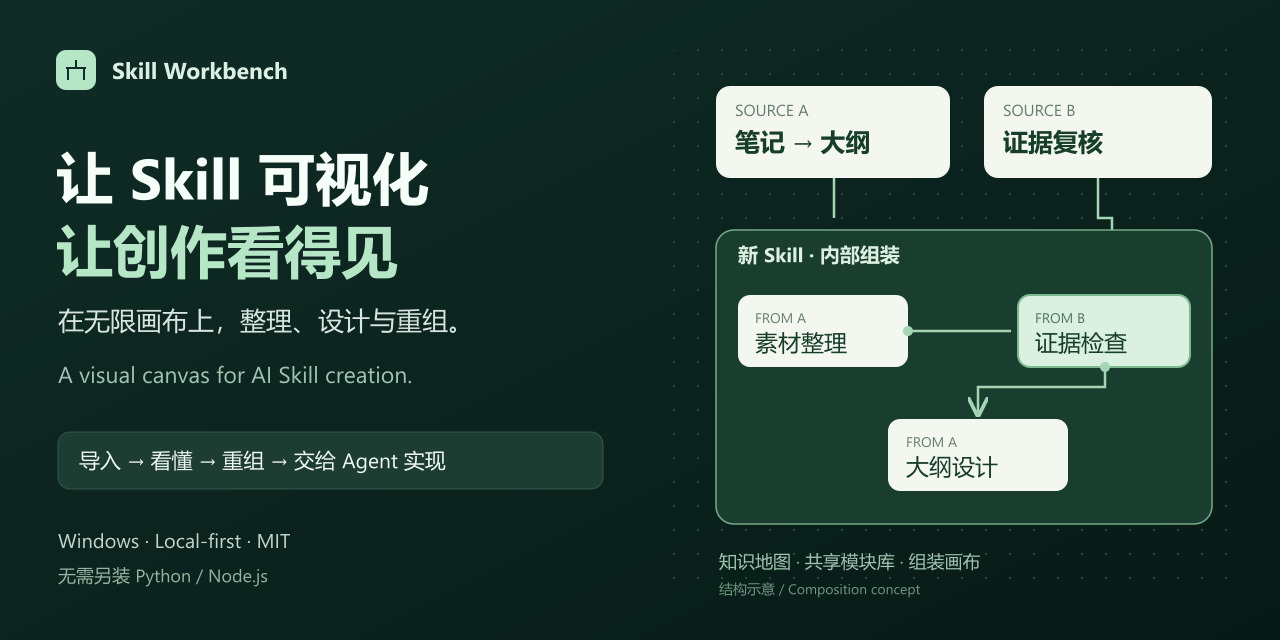
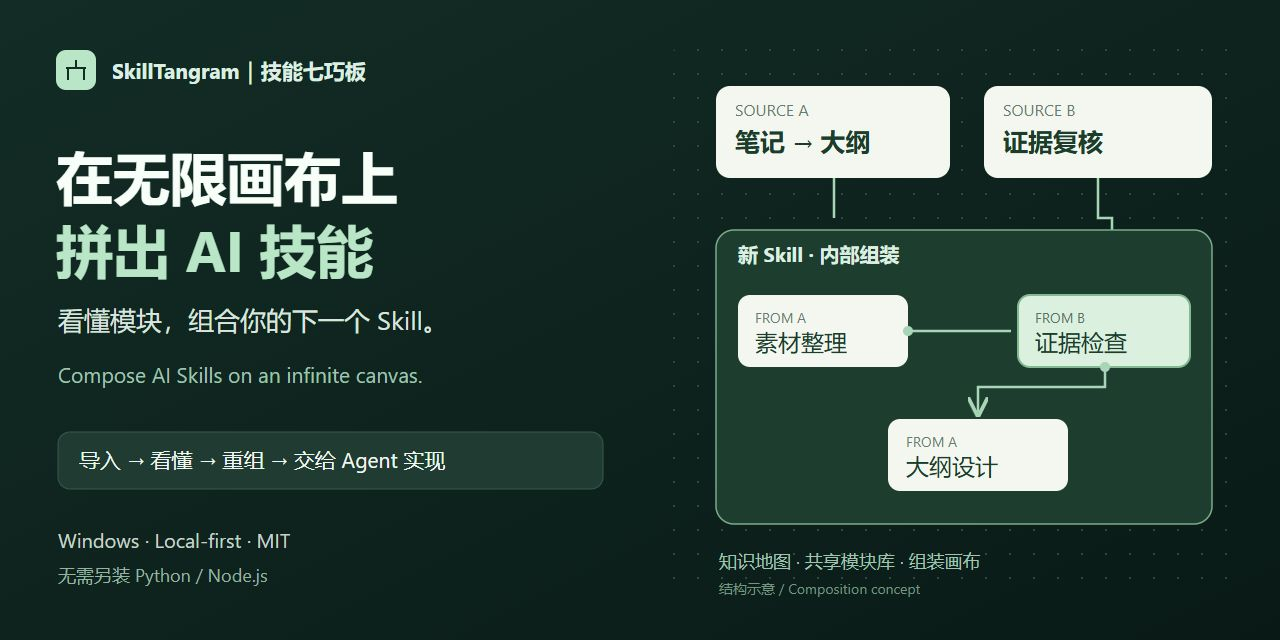
Rebrand as SkillTangram while preserving links and saved data

diff --git a/apps/web/src/main.tsx b/apps/web/src/main.tsx
@@ -1,3 +1,4 @@
+import {BRAND} from './branding';
 import React,{useCallback,useEffect,useMemo,useRef,useState} from 'react';
 import {createRoot} from 'react-dom/client';
 import {ReactFlow,ReactFlowProvider,Background,Controls,MiniMap,Handle,Position,applyNodeChanges,useReactFlow} from '@xyflow/react';
@@ -65,17 +66,17 @@ function App(){
   const jump=async(id:string,other?:string)=>{try{if(other&&other!==sid){setSid(other);await load(other);}const d=await api('nodes/'+id);setFocus(d.parent_id||id);setTrailIds(d.parent_id?d.breadcrumb.slice(0,-1).map((n:any)=>n.id):[id]);setChosen(id);setDetail(d);setView('map');setResults(null);setQuery('');}catch(e:any){setError(e.message);}};
   const refresh=async()=>{if(skill?.family_id){openImports(skill.family_id);return;}setBusy(true);setError('');try{const r=await api('skills/'+sid+'/scan',{});await load(sid);setDetail(null);if(chosen)setDetail(await api('nodes/'+chosen));setNotice(r.changed?'地图已更新，原文重新核对完成。':'已核对全部源文件，当前没有变化。');}catch(e:any){setError(e.message);}finally{setBusy(false);}};
   const inspect=async()=>{setView('inventory');try{setInventory(await api('skills/'+sid+'/inventory'));}catch(e:any){setError(e.message);}};
-  return <div className={"app-shell "+(view==='assembly'?'assembly-active':view==='releases'?'release-active':'')}><aside className="sidebar"><div className="brand"><div className="brand-symbol"><Network size={25}/></div><div><strong>Skill Workbench</strong><small>SKILL CREATION CANVAS</small></div></div>
+  return <div className={"app-shell "+(view==='assembly'?'assembly-active':view==='releases'?'release-active':'')}><aside className="sidebar"><div className="brand"><div className="brand-symbol"><Network size={25}/></div><div><strong title={BRAND.display}>{BRAND.name}<span className="brand-cn">｜{BRAND.chinese}</span></strong><small>COMPOSE AI SKILLS</small></div></div>
     <div className="workspace-label">工作空间 <span>本机</span></div><button className={'nav-button '+(view==='map'?'active':'')} onClick={()=>setView('map')}><Network size={18}/>知识地图</button><button className={'nav-button '+(view==='assembly'?'active':'')} onClick={openAssembly}><Layers size={18}/>组装台</button><button className={'nav-button '+(view==='imports'?'active':'')} onClick={()=>openImports()}><FolderOpen size={18}/>导入与同步</button><button className={'nav-button '+(view==='tasks'?'active':'')} onClick={()=>setView('tasks')}><MessageSquare size={18}/>维护意见<span className="nav-count">{skill?.pending||0}</span></button><button className={'nav-button '+(view==='inventory'?'active':'')} onClick={inspect}><FileText size={18}/>来源与核验</button>
     <button className={'nav-button '+(view==='releases'?'active':'')} onClick={()=>{setQuery('');setResults(null);setView('releases');}}><ShieldCheck size={18}/>发布与调用</button>
     <div className="workspace-label skill-label">已登记 Skill <button title="登记新Skill" onClick={()=>openImports()}><Plus size={16}/></button></div><div className="skill-list">{skills.filter(s=>s.version_role!=='历史版本').map(s=><button key={s.id} className={'skill-item '+(sid===s.id?'selected':'')} onClick={()=>{setSid(s.id);load(s.id,true).catch(e=>setError(e.message));setView('map');}}><span className="skill-glyph"><BookOpen size={19}/></span><span><strong>{s.name}</strong><small>{s.version} · {s.state}</small></span><ChevronRight size={14}/></button>)}</div>
     <div className="workspace-label">当前地图大纲</div><div className="outline">{facts.filter(f=>f.kind==='theme').map(f=><div key={f.id}><button className={focus===f.id?'outline-picked':''} onClick={()=>open(f.id)}><ChevronRight size={13}/>{f.title}<span>{facts.filter(n=>edges.some(e=>e.kind==='contains'&&e.source_id===f.id&&e.target_id===n.id)).length}</span></button>{trail.some(n=>n.id===f.id)&&facts.filter(n=>edges.some(e=>e.kind==='contains'&&e.source_id===f.id&&e.target_id===n.id)).map(n=><button className={'outline-child '+(focus===n.id?'outline-picked':'')} key={n.id} title={n.path||n.title} onClick={()=>open(n.id)}><FileText size={12}/>{n.title}</button>)}</div>)}</div><div className="sidebar-foot"><ShieldCheck size={17}/><div>现有 Skill 只读<small>修改规则须批准具体方案</small></div></div></aside>
-    <main><header className="topbar"><div className="topbar-title"><span className="eyebrow">知识与组装 · 同一工作空间</span><h1>{view==='releases'?'发布与调用':view==='assembly'?'Skill 组装台':view==='tasks'?'维护意见':view==='inventory'?'来源与核验':view==='imports'?'导入与同步':'Skill 知识地图'}</h1></div>{view!=='assembly'&&view!=='imports'&&view!=='releases'&&<div className="search-box"><Search size={17}/><input aria-label="搜索全部Skill" placeholder="搜索规则、原文或路径…" value={query} onChange={e=>setQuery(e.target.value)}/><kbd>全部 Skill</kbd>{query&&<button aria-label="关闭搜索" onClick={()=>setQuery('')}><X size={16}/></button>}</div>}<button className="icon-button" title="核对原目录与预览新版同步" disabled={busy||!sid} onClick={refresh}><RefreshCw size={19} className={busy?'spin':''}/></button><div className="avatar">S</div></header>
+    <main><header className="topbar"><div className="topbar-title"><span className="eyebrow">在无限画布上，拼出你的 AI 技能。</span><h1>{view==='releases'?'发布与调用':view==='assembly'?'Skill 组装台':view==='tasks'?'维护意见':view==='inventory'?'来源与核验':view==='imports'?'导入与同步':'Skill 知识地图'}</h1></div>{view!=='assembly'&&view!=='imports'&&view!=='releases'&&<div className="search-box"><Search size={17}/><input aria-label="搜索全部Skill" placeholder="搜索规则、原文或路径…" value={query} onChange={e=>setQuery(e.target.value)}/><kbd>全部 Skill</kbd>{query&&<button aria-label="关闭搜索" onClick={()=>setQuery('')}><X size={16}/></button>}</div>}<button className="icon-button" title="核对原目录与预览新版同步" disabled={busy||!sid} onClick={refresh}><RefreshCw size={19} className={busy?'spin':''}/></button><div className="avatar">S</div></header>
     {error&&<div role="alert" className="alert"><AlertCircle size={17}/>{error}<button onClick={()=>setError('')}><X size={16}/></button></div>}{notice&&<div className="notice"><Check size={16}/>{notice}<button onClick={()=>setNotice('')}><X size={16}/></button></div>}
     {view!=='assembly'&&view!=='imports'&&view!=='releases'&&<div className="skill-banner"><div><span className="version-badge">{skill?.version||'待登记'}</span><strong>{skill?.name||'请先导入您的 Skill'}</strong><span className="status-pill"><span className={'dot '+(skill?.error?'warning':'')}/>{skill?.state||'等待导入'}</span></div><p>{skill?.description}</p><div className="metrics"><span><strong>{skill?.files||0}</strong>来源文件</span><span><strong>{Math.max(0,(skill?.counts.theme||0)-(skill?.navigation_adapter==='V16_ENTRY_AUTHORITY'?1:0))}</strong>知识区 <small>{skill?.navigation_adapter==='V16_ENTRY_AUTHORITY'?'＋配套材料':skill?.navigation_adapter==='SOURCE_CONTENT_NAVIGATION'?'内容导航':'来源结构'}</small></span><span><strong>{(skill?.counts.rule_candidate||0)+(skill?.counts.subrule||0)}</strong>规则 / 子规则候选 <small>语义待审</small></span><span><strong>{skill?.pending||0}</strong>待处理意见</span><span className="sync-time"><Clock size={13}/>核对于 {skill?.last_sync?new Date(skill.last_sync).toLocaleTimeString('zh-CN'): '—'}</span></div></div>}
     {skill?.error&&<div className="alert">{skill.error}。当前显示上次成功的地图，不能当作最新源。</div>}
     {view==='releases'&&<ReleasePanel onOpenImports={openImports} onOpenVersion={id=>{setSid(id);void load(id,true);setView('map');}}/>}
-    {skills.length===0&&view==='map'&&<section className="welcome"><h2>从第一份 Skill 开始创作</h2><p>导入已有 Skill，看清大小模块；进入组装台，用画布整理和设计自己的新方案。</p><button className="primary" onClick={()=>openImports()}>导入我的 Skill</button><small>也可以导入 examples 目录中的公开示例。原 Skill 保持完整。</small></section>}{view==='imports'&&<ImportPanel initialFamily={importFamily} onOpenVersion={id=>{setSid(id);void load(id,true);setView('map');}} onAdopted={async id=>{setSid(id);await load(id,true);setNotice('准确来源版本已接入三个视图；旧版及草稿保留。');}}/>}
+    {skills.length===0&&view==='map'&&<section className="welcome"><h2>从第一份 Skill 开始创作</h2><p>看懂已有 Skill，复用不同来源的模块，在无限画布上组合、调整和设计，再将完整方案交给 Agent 核验与实现。</p><button className="primary" onClick={()=>openImports()}>导入我的 Skill</button><small>也可以导入 examples 目录中的公开示例。原 Skill 保持完整。</small></section>}{view==='imports'&&<ImportPanel initialFamily={importFamily} onOpenVersion={id=>{setSid(id);void load(id,true);setView('map');}} onAdopted={async id=>{setSid(id);await load(id,true);setNotice('准确来源版本已接入三个视图；旧版及草稿保留。');}}/>}
     {view!=='assembly'&&view!=='imports'&&view!=='releases'&&(results!==null?<section className="search-results"><div className="section-heading"><h2>搜索结果 <span>{results.length}</span></h2><small>{searchMs} ms · 最多显示60项</small></div>{results.length===0?<div className="empty"><Search size={32}/><h3>没有找到相关内容</h3><p>试试规则中的词语或文件路径。</p></div>:results.map(r=><button className="result" key={r.id} onClick={()=>jump(r.id,r.skill_id)}><div className="result-top"><strong><Mark text={r.title} query={query}/></strong><span>{r.version} · {labels[r.kind]}</span></div><p><Mark text={r.snippet} query={query}/></p><small>{r.breadcrumb.map((b:any)=>b.title).join(' › ')}</small>{r.version_role==='历史版本'?<em>历史版本 · 保留原文</em>:r.source_status==='待同步'?<em>原目录待同步 · 当前结果为登记快照</em>:r.source_status?.includes('来源异常')?<em>原目录异常 · 当前结果为登记快照</em>:!r.version_role&&r.state!=='已同步'?<em>源异常：此结果可能过期</em>:null}</button>)}</section>:
       view==='inventory'?<section className="inventory-view"><div className="section-heading"><h2>原文与索引对照</h2><div className="task-actions"><button onClick={async()=>{try{const r=await api('backup',{});setNotice('工作台数据已备份：'+r.path);}catch(e:any){setError(e.message);}}}><History size={15}/>备份工作台数据</button><button onClick={()=>download('来源清单.json',inventory)}><Download size={15}/>导出清单</button></div></div><p className="muted">所有源只读。自动结构定位已经核对；业务语义和引用职责仍待独立审查。</p><div className="file-table"><div className="file-row table-head"><span>来源文件</span><span>行数</span><span>状态</span><span>SHA256</span></div>{inventory?.files.map((f:any)=><div className="file-row" key={f.id}><button onClick={()=>{const n=facts.find(n=>n.path===f.path&&n.kind==='file');if(n)jump(n.id);}}>{f.path}</button><span>{f.line_count}</span><span>{f.deleted?'已删除':f.state}</span><code title={f.sha256}>{f.sha256.slice(0,12)}…</code></div>)}</div><h3>待核对的文件名引用 · {inventory?.unresolved.length||0}</h3><p className="muted">未定位的词可能是输出产物、外部路径或符号，不直接判为坏链接。</p>{inventory?.unresolved.map((u:any,i:number)=><button className="unresolved-item" key={i} onClick={()=>jump(u.source_id)}><span>{u.token}</span><small>{u.path}:{u.line} · {u.reason}</small></button>)}</section>:
       view==='tasks'?<TaskQueue onError={setError} onNotice={setNotice}/>:

diff --git a/apps/web/src/demo/main.tsx b/apps/web/src/demo/main.tsx
@@ -1,3 +1,4 @@
+import {BRAND} from '../branding';
 import React,{useEffect,useState} from 'react';
 import {createRoot} from 'react-dom/client';
 import {ReactFlow,Background,Controls,MiniMap,Handle,Position,BaseEdge,EdgeLabelRenderer,getBezierPath,applyNodeChanges,useReactFlow,useNodesInitialized} from '@xyflow/react';
@@ -48,7 +49,7 @@ function App(){
   useEffect(()=>{const close=(e:KeyboardEvent)=>{if(e.key==='Escape'){setRead(null);setResetConfirm(false);}};window.addEventListener('keydown',close);return()=>window.removeEventListener('keydown',close);},[]);
   const [start,setStart]=useState(''),[end,setEnd]=useState(''),[handoff,setHandoff]=useState('');
   const [nodes,setNodes]=useState<Node<CardData>[]>([]);
-  useEffect(()=>{document.documentElement.lang=lang;document.title='Skill Workbench · '+t('在线体验','Try the canvas');},[lang]);
+  useEffect(()=>{document.documentElement.lang=lang;document.title=BRAND.display+' · '+t('在线体验','Try the canvas');},[lang]);
   useEffect(()=>{const f=(e:BeforeUnloadEvent)=>{if(dirty){e.preventDefault();e.returnValue='';}};window.addEventListener('beforeunload',f);return()=>window.removeEventListener('beforeunload',f);},[dirty]);
   const parent=locationIn?byId.get(resolveLocation(draft,locationIn,children))!:null;
   const slots=locationIn?slotsAt(draft,locationIn,parent!.id,children):[];
@@ -87,8 +88,8 @@ function App(){
   const breadcrumbs=locationIn?[byId.get(draft.instances.find(p=>p.id===locationIn.owner_id)!.node_id)!,...locationIn.path.map((_,i)=>byId.get(resolveLocation(draft,{owner_id:locationIn.owner_id,path:locationIn.path.slice(0,i+1)},children))!)]:[];
   const sourceFile=read?data.files.find(f=>f.path===read.path)!:null;
   return <>
-    <header className="topbar"><a className="brand" href={REPO} target="_blank" rel="noreferrer"><span className="brand-symbol"><GitBranch size={22}/></span>Skill Workbench</a><span className="demo-badge">{t('在线体验','LIVE EXAMPLE')}</span><nav><button className="lang-button" onClick={()=>setLang(zh?'en':'zh')}>{zh?'English':'中文'}</button><a href={REPO} target="_blank" rel="noreferrer">GitHub <ArrowUpRight size={14}/></a><a className="download-link" href={INSTALL} target="_blank" rel="noreferrer"><Download size={15}/>{t('下载完整版','Get desktop app')}</a></nav></header>
-    <section className="intro"><div><div className="eyebrow">SEE IT. SHAPE IT. HAND IT OFF.</div><h1>{t('把 Skill 想法，放到画布上。','Your next Skill starts on a canvas.')}</h1><p>{t('看看来源，把模块放进合适的位置，再把完整设计交给 Agent。','Inspect the source. Place modules where they belong. Hand the complete design to your agent.')}</p></div><div className="local-label"><span/>{t('无需安装 · 无需登录 · 浏览器本地保存','No install · No account · Saved in your browser')}</div></section>
+    <header className="topbar"><a className="brand" href={REPO} target="_blank" rel="noreferrer"><span className="brand-symbol"><GitBranch size={22}/></span><span className="brand-wordmark">{BRAND.name}<small>｜{BRAND.chinese}</small></span></a><span className="demo-badge">{t('在线体验','LIVE EXAMPLE')}</span><nav><button className="lang-button" onClick={()=>setLang(zh?'en':'zh')}>{zh?'English':'中文'}</button><a href={REPO} target="_blank" rel="noreferrer">GitHub <ArrowUpRight size={14}/></a><a className="download-link" href={INSTALL} target="_blank" rel="noreferrer"><Download size={15}/>{t('下载完整版','Get desktop app')}</a></nav></header>
+    <section className="intro"><div><div className="eyebrow">SEE IT. SHAPE IT. HAND IT OFF.</div><h1>{t(BRAND.taglineZh,BRAND.taglineEn)}</h1><p>{t(BRAND.introZh,BRAND.introEn)}</p></div><div className="local-label"><span/>{t('无需安装 · 无需登录 · 浏览器本地保存','No install · No account · Saved in your browser')}</div></section>
     <main className="workspace">
       <aside className="library"><div className="panel-heading"><Layers size={17}/><h2>{t('模块仓库','Module library')}</h2><span>2 Skills</span></div><p className="panel-description">{t('来自两个公开示例，保留来源与原文。','Two public examples. Each module keeps its source.')}</p><label className="search"><Search size={15}/><input aria-label={t('搜索模块','Search modules')} value={query} onChange={e=>setQuery(e.target.value)} placeholder={t('搜索模块或来源…','Search modules or sources…')}/></label><div className="segmented"><button className={libraryLevel==='files'?'active':''} onClick={()=>setLibraryLevel('files')}>{t('主要模块','Main modules')}</button><button className={libraryLevel==='all'?'active':''} onClick={()=>setLibraryLevel('all')}>{t('含子模块','With submodules')}</button></div>
         <div className="library-list">{library.map(u=><article className="library-card" key={u.id} draggable={mode==='assembly'} onDragStart={e=>{e.dataTransfer.setData('application/skill-workbench-unit',u.id);e.dataTransfer.effectAllowed='copy';}}><div className="library-top"><Box size={15}/><span>{u.kind==='section'?t('子模块','SUBMODULE'):t('模块','MODULE')}</span><button className="icon-button" aria-label={t('查看原文','Read source')+' '+title(u)} onClick={()=>setRead(u)}><FileText size={14}/></button></div><strong>{title(u)}</strong><small>{source(u)} · 1.0</small><div className="library-actions"><span>{(children.get(u.id)||[]).length} {t('个子项','children')}</span><button disabled={mode==='map'} aria-label={t('加入','Add')+' '+title(u)} onClick={()=>add(u)}><Plus size={13}/>{t('加入','Add')}</button></div></article>)}{!library.length&&<p className="empty">{t('没有找到模块。试试其他关键词。','No matches. Try another search.')}</p>}</div><div className="library-note"><BookOpen size={16}/><span>{t('自己的 Skill？下载完整版后导入。在线示例不上传文件。','Your own Skills? Import them in the desktop app. This example uploads no files.')}</span></div>

diff --git a/apps/web/src/demo/style.css b/apps/web/src/demo/style.css
@@ -4,3 +4,5 @@
 @media(max-width:1190px){.workspace{grid-template-columns:210px minmax(400px,1fr)}.inspector{display:flex;grid-column:1/-1;max-height:340px;border-left:0;border-top:1px solid var(--border)}.workspace{height:auto}.editor{min-height:560px}.local-label{display:none}.topbar{padding:0 20px}.intro{padding-left:22px}.save-actions button{font-size:10px}.canvas-heading .subtle{max-width:180px}.challenge ol{gap:10px}.challenge li{font-size:9px}.workspace{margin:0 12px}}
 @media(max-width:740px){.topbar{height:58px;padding:0 12px;gap:6px}.brand{font-size:15px}.brand-symbol{width:28px;height:28px}.demo-badge{display:none}.topbar nav{gap:9px;font-size:10px}.download-link{padding:7px!important}.intro{padding:20px 16px}.intro h1{font-size:25px;letter-spacing:-.7px}.intro p{font-size:11px;line-height:1.7}.workspace{display:flex;flex-direction:column;height:auto;min-height:800px;margin:0 8px}.library{padding:12px;border-right:0;border-bottom:1px solid var(--border)}.library .panel-description,.library-note{display:none}.library .panel-heading{margin-bottom:9px}.search{width:calc(100% - 180px)}.segmented{position:absolute;right:20px;width:160px;margin:41px 0 0}.library-list{display:flex;gap:9px;overflow-x:auto;padding:12px 0 0;flex:none}.library-card{min-width:170px;width:170px;margin-bottom:2px}.library-card strong{font-size:11px}.library-top{font-size:8px}.library-actions{margin-top:8px}.editor-top{padding:9px;flex-wrap:wrap;gap:6px}.view-tabs button{font-size:11px}.save-actions{margin-left:auto}.save-actions button{padding:6px 8px}.challenge{padding:12px}.challenge>div{flex-direction:column;align-items:flex-start;gap:5px}.challenge strong{font-size:11px}.challenge ol{gap:10px}.challenge li{font-size:8px}.challenge li>span{width:15px;height:15px}.canvas{height:400px;min-height:400px}.canvas-heading{padding:9px}.canvas-heading .subtle{display:none}.connection-bar{flex-wrap:wrap}.connection-bar>span{width:100%}.connection-bar select{min-width:80px;max-width:none}.connection-bar input{flex-basis:100%;order:2}.connection-bar>button{order:3}.status-line{font-size:9px;min-height:45px}.canvas-tip{font-size:10px;bottom:40px;max-width:85%;white-space:normal}.react-flow__minimap{display:none}footer{padding:15px;flex-direction:column;align-items:flex-start;gap:8px;font-size:9px}.source-modal{padding:18px}.source-modal h2{font-size:18px}.inspector{display:flex;border-left:0;border-top:1px solid var(--border);max-height:420px;padding:15px}.inspector .panel-heading{margin-bottom:10px}.inspector-illustration,.how-to{display:none}.boundary{padding-top:10px}.modal-backdrop{padding:10px}}
 @media(prefers-reduced-motion:reduce){*{transition:none!important;scroll-behavior:auto!important}}
+
+.brand-wordmark{line-height:1.15;white-space:nowrap}.brand-wordmark small{display:block;font-size:11px;font-weight:500;letter-spacing:.5px;margin-top:4px}.intro p{max-width:920px;line-height:1.65}@media(max-width:740px){.brand-wordmark small{font-size:9px;margin-top:2px}.topbar .brand{gap:6px;font-size:14px}.topbar .brand-symbol{width:25px;height:25px;flex-shrink:0}.intro h1{font-size:23px}}

diff --git a/apps/web/demo/index.html b/apps/web/demo/index.html
@@ -1,2 +1,2 @@
 <!doctype html>
-<html lang="en"><head><meta charset="UTF-8"/><meta name="viewport" content="width=device-width, initial-scale=1.0"/><meta name="theme-color" content="#163e34"/><meta name="description" content="Try Skill Workbench in your browser: explore AI Skill maps, compose nested modules on a canvas, connect them and export a source-backed design. No install or account."/><title>Skill Workbench · Try the canvas</title><link rel="icon" type="image/svg+xml" href="./favicon.svg"/></head><body><div id="root"></div><script type="module" src="../src/demo/main.tsx"></script></body></html>
+<html lang="en"><head><meta charset="UTF-8"/><meta name="viewport" content="width=device-width, initial-scale=1.0"/><meta name="theme-color" content="#163e34"/><meta name="description" content="Compose AI Skills on an infinite canvas. Explore maps, remix modules and export a source-backed design. No install or account. 在无限画布上，拼出你的 AI 技能。"/><title>SkillTangram｜技能七巧板 · Try the canvas</title><link rel="icon" type="image/svg+xml" href="./favicon.svg"/></head><body><div id="root"></div><script type="module" src="../src/demo/main.tsx"></script></body></html>

diff --git a/apps/web/index.html b/apps/web/index.html
@@ -1,1 +1,1 @@
-<!doctype html><html lang="zh-CN"><head><meta charset="UTF-8"/><meta name="viewport" content="width=device-width,initial-scale=1.0"/><meta name="theme-color" content="#123930"/><title>Skill Workbench · Skill 创作画布</title></head><body><div id="root"></div><script type="module" src="/src/main.tsx"></script></body></html>
+<!doctype html><html lang="zh-CN"><head><meta charset="UTF-8"/><meta name="viewport" content="width=device-width,initial-scale=1.0"/><meta name="theme-color" content="#123930"/><title>SkillTangram｜技能七巧板</title><meta name="description" content="在无限画布上，拼出你的 AI 技能。 Compose AI Skills on an infinite canvas. 看懂已有 Skill，复用不同来源的模块，在无限画布上组合、调整和设计，再将完整方案交给 Agent 核验与实现。"/></head><body><div id="root"></div><script type="module" src="/src/main.tsx"></script></body></html>

diff --git a/apps/web/src/branding.ts b/apps/web/src/branding.ts
@@ -1,0 +1,10 @@
+// Display-only identity. URLs, storage keys and export formats keep their existing identifiers.
+export const BRAND = {
+  name: 'SkillTangram',
+  chinese: '技能七巧板',
+  display: 'SkillTangram｜技能七巧板',
+  taglineZh: '在无限画布上，拼出你的 AI 技能。',
+  taglineEn: 'Compose AI Skills on an infinite canvas.',
+  introZh: '看懂已有 Skill，复用不同来源的模块，在无限画布上组合、调整和设计，再将完整方案交给 Agent 核验与实现。',
+  introEn: 'Understand existing Skills, remix modules from different sources on an infinite canvas, and hand the complete design to your agent for validation and implementation.',
+} as const;

diff --git a/apps/web/src/style.css b/apps/web/src/style.css
@@ -20,3 +20,6 @@
 .import-card input[hidden]{display:none}
 
 .welcome{margin:24px;padding:28px;border:1px solid #d7e4dd;border-radius:14px;background:#f4f9f5}.welcome h2{color:#1e5140}.welcome p{line-height:1.9}.welcome small{display:block;margin-top:14px;color:#607c6d}
+
+/* Brand stays readable inside the existing sidebar without changing navigation. */
+.brand strong .brand-cn{display:block;font-size:12px;font-weight:500;letter-spacing:.5px;margin-top:4px}.brand strong{line-height:1.25}.brand small{letter-spacing:.9px}

diff --git a/portable_launcher.py b/portable_launcher.py
@@ -53,7 +53,7 @@ def prepare(port):
 
 
 def main():
-    parser = argparse.ArgumentParser(description='Skill Workbench Windows launcher')
+    parser = argparse.ArgumentParser(description='SkillTangram｜技能七巧板 Windows launcher')
     parser.add_argument('--port', type=int, default=int(os.environ.get('SKM_PORT', '8770')))
     parser.add_argument('--no-browser', action='store_true')
     parser.add_argument('--headless', action='store_true', help='For isolated packaging verification')
@@ -76,14 +76,14 @@ def main():
     import tkinter as tk
     from tkinter import messagebox, ttk
     window = tk.Tk()
-    window.title('Skill Workbench')
+    window.title('SkillTangram｜技能七巧板')
     window.geometry('540x280')
     window.resizable(False, False)
     style = ttk.Style(window)
     style.configure('TLabel', font=('Microsoft YaHei UI', 10))
     box = ttk.Frame(window, padding=24)
     box.pack(fill='both', expand=True)
-    ttk.Label(box, text='Skill 可视化创作工作台', font=('Microsoft YaHei UI', 16, 'bold')).pack(anchor='w')
+    ttk.Label(box, text='SkillTangram｜技能七巧板', font=('Microsoft YaHei UI', 16, 'bold')).pack(anchor='w')
     status = tk.StringVar(value='正在启动，请稍候…')
     ttk.Label(box, textvariable=status).pack(anchor='w', pady=(16, 8))
     url = f'http://127.0.0.1:{args.port}/'

diff --git a/tools/build_windows.py b/tools/build_windows.py
@@ -57,7 +57,7 @@ def main():
             if any(token in relative.name.lower() for token in ('license', 'copying', 'notice')) and distribution.locate_file(relative).is_file():
                 destination = notices / ('build-' + name + '-' + relative.name)
                 shutil.copyfile(distribution.locate_file(relative), destination)
-    (bundle / '开始使用.txt').write_text('''Skill Workbench
+    (bundle / '开始使用.txt').write_text('''SkillTangram｜技能七巧板
 
 1. 完整解压整个文件夹。
 2. 双击“启动工作台.exe”，浏览器自动打开。

diff --git a/launcher.py b/launcher.py
@@ -29,7 +29,7 @@ def main():
                         webbrowser.open(url);return
                 time.sleep(.1)
         threading.Thread(target=open_when_ready,daemon=True).start()
-    print('Skill Workbench:',url,'\n运行资料：',config.RUNTIME,'\n按 Ctrl+C 停止。')
+    print('SkillTangram｜技能七巧板:',url,'\n运行资料：',config.RUNTIME,'\n按 Ctrl+C 停止。')
     import uvicorn
     uvicorn.run(api.app,host='127.0.0.1',port=args.port)
 

diff --git a/README.md b/README.md
@@ -1,14 +1,18 @@
-# Skill Workbench · 可视化 Skill 创作工作台
+<a id="skill-workbench--可视化-skill-创作工作台"></a>
 
-**让 Skill 可视化，让创作过程看得见。**
+# SkillTangram｜技能七巧板
 
-**An infinite canvas for visual AI Skill creation.**
+**在无限画布上，拼出你的 AI 技能。**
 
-Skill Workbench 把 Skill 的结构、规则和模块带到可缩放、可平移的画布上。你可以看清已有 Skill，设计新的 Skill，把不同来源的大小模块重新搭配，再将完整设计交给自己的 Agent 或开发者完成接入。
+**Compose AI Skills on an infinite canvas.**
 
-See how existing AI Skills are built, design new ones on a visual canvas, and combine modules from different sources. Export the complete design to your agent or developer for integration.
+SkillTangram（技能七巧板）让模块像七巧板一样重新组合。看懂已有 Skill，复用不同来源的模块，在无限画布上组合、调整和设计，再将完整方案交给 Agent 核验与实现。
+
+SkillTangram turns reusable modules into pieces you can compose. Understand existing Skills, remix modules from different sources on an infinite canvas, and hand the complete design to your agent for validation and implementation.
 
 [**直接在线体验 / Try in your browser →**](https://jiangzl1986-gif.github.io/skill-workbench/) · [**下载 Windows 安装包 / Windows installer**](https://github.com/jiangzl1986-gif/skill-workbench/releases/download/v0.1.0-beta.2/skill-workbench-0.1.0-beta.2-windows-x64-setup.exe) · [**交流与案例 / Discussions**](https://github.com/jiangzl1986-gif/skill-workbench/discussions)
+
+原名 Skill Workbench；仓库与在线体验地址保持不变，原链接、草稿和旧下载继续可用。[名称与兼容说明](docs/BRANDING.md)。
 
 [中文介绍](#中文介绍) · [English on this page](#english) · [English README](README.en.md) · [全部下载 / All downloads](https://github.com/jiangzl1986-gif/skill-workbench/releases) · [使用指南 / User guide](docs/USER_GUIDE.md)
 
@@ -33,7 +37,7 @@ If it helps you create Skills, **Star** the repository to find it again. Share p
 
 用文字和 Agent 讨论 Skill 很方便，但随着规则和文件变多，你可能很难看清：已经做出了哪些模块？某条规则放在哪里？两个模块怎样交接？把别人的一个小模块接进来，应该放到哪个位置？
 
-Skill Workbench 为这个过程提供一个可见、可修改、可交接的工作空间。**把想法画出来，把结构看清楚，把修改位置说明白。** 文字仍可用于描述目标和接入要求，画布则让你直接表达模块的位置、组合与连接。
+SkillTangram 为这个过程提供一个可见、可修改、可交接的工作空间。**把想法画出来，把结构看清楚，把修改位置说明白。** 文字仍可用于描述目标和接入要求，画布则让你直接表达模块的位置、组合与连接。
 
 ## 用它可以怎样创作和整理 Skill
 
@@ -76,7 +80,7 @@ flowchart LR
 
 例如，你想给“笔记转大纲” Skill 增加证据复核能力。先导入它和“证据复核” Skill，载入前者的整套结构，进入“大纲设计”内部，把后者的“证据检查”加入指定位置，连接并写明交接意图。保存设计后，把导出的 JSON 交给自己的 Agent：它可以依据来源原文、版本和你的布局，分析接口与规则，再实施经过确认的方案。两份原 Skill 都保留。
 
-![在大模块内部接入另一份 Skill 的小模块 / Combining a submodule from another Skill inside a parent module](docs/images/inner-composition.png)
+![在大模块内部接入另一份 Skill 的小模块 / Combining a submodule from another Skill inside a parent module](docs/images/demo-inner.jpg)
 
 ## 具体功能
 
@@ -101,7 +105,7 @@ flowchart LR
 第一次体验可跟随 [公开示例图文演示](docs/TRY_IT.md)；无需先准备自己的 Skill，也无需模型账号。
 
 1. 下载 [Windows 安装包](https://github.com/jiangzl1986-gif/skill-workbench/releases)，选择 **windows-x64-setup.exe**。
-2. 双击安装程序，点击 **Install**；完成后打开 **Skill Workbench**，浏览器会自动显示工作台。以后可从桌面或开始菜单打开。
+2. 双击安装程序，点击 **Install**；完成后打开 **Skill Workbench（旧安装包名称）**，浏览器会自动显示工作台。以后可从桌面或开始菜单打开。
 3. 到“导入与同步”选择自己的 Skill，或先用安装目录 `examples` 中的两个公开示例体验跨来源组装。
 
 **不需要自己安装 Python、Node.js，不需要运行 setup，也不需要联网安装依赖。** 当前支持 Windows x64，工作台界面为中文，安装向导为英文。使用时保留启动窗口，点 **退出工作台** 正常停止服务。
@@ -135,7 +139,7 @@ flowchart LR
 
 Text conversations with an agent are useful for building a Skill. As its rules and files grow, it becomes harder to see which modules exist, where a rule belongs, how two modules should hand off their work, or where a submodule from another Skill should fit.
 
-Skill Workbench gives that process a visible, editable workspace. **Sketch your ideas, inspect the structure, and show exactly where a change belongs.** Use text to explain goals and integration requirements, and the canvas to express module placement, composition and connections.
+SkillTangram gives that process a visible, editable workspace. **Sketch your ideas, inspect the structure, and show exactly where a change belongs.** Use text to explain goals and integration requirements, and the canvas to express module placement, composition and connections.
 
 ## What you can create and organize
 
@@ -201,7 +205,7 @@ Canvas connections express your design. **An executable Skill still requires int
 For your first session, follow the [public-example walkthrough](docs/TRY_IT.md#english). You do not need your own Skill or a model account to try the workbench.
 
 1. Download the [Windows installer](https://github.com/jiangzl1986-gif/skill-workbench/releases), choosing **windows-x64-setup.exe**.
-2. Double-click it and choose **Install**. Open **Skill Workbench** when finished; your browser opens automatically. Desktop and Start menu shortcuts are available for later use.
+2. Double-click it and choose **Install**. Open **Skill Workbench** (the name in existing installers) when finished; your browser opens automatically. Desktop and Start menu shortcuts are available for later use.
 3. Import your Skill through “导入与同步”, or try the two public examples in the installed `examples` folder.
 
 **No separate Python, Node.js, setup command or online dependency installation is needed.** The package targets Windows x64; the workbench UI is Chinese and the installer wizard is English. Keep the launcher open and click **退出工作台** to stop the service.

diff --git a/README.en.md b/README.en.md
@@ -1,10 +1,14 @@
-# Skill Workbench · Visual AI Skill Creation
+<a id="skill-workbench--visual-ai-skill-creation"></a>
 
-**An infinite canvas for visual AI Skill creation.**
+# SkillTangram｜技能七巧板
 
-See how existing AI Skills are built, design new ones on a visual canvas, and combine modules from different sources. Export the complete design to your agent or developer for integration.
+**Compose AI Skills on an infinite canvas.**
+
+SkillTangram turns reusable modules into pieces you can compose. Understand existing Skills, remix modules from different sources on an infinite canvas, and hand the complete design to your agent for validation and implementation.
 
 [**Try in your browser — no install →**](https://jiangzl1986-gif.github.io/skill-workbench/?lang=en) · [**Download Windows installer**](https://github.com/jiangzl1986-gif/skill-workbench/releases/download/v0.1.0-beta.2/skill-workbench-0.1.0-beta.2-windows-x64-setup.exe) · [**Discussions**](https://github.com/jiangzl1986-gif/skill-workbench/discussions)
+
+Formerly Skill Workbench. Repository and demo URLs, saved drafts and existing downloads remain compatible. [Name and compatibility](docs/BRANDING.md).
 
 [中文 / Bilingual overview](README.md) · [All downloads](https://github.com/jiangzl1986-gif/skill-workbench/releases) · [User guide (Chinese)](docs/USER_GUIDE.md)
 
@@ -25,7 +29,7 @@ If it helps you create Skills, **Star** the repository to find it again. Share p
 
 Text conversations with an agent are useful for building a Skill. As its rules and files grow, it becomes harder to see which modules exist, where a rule belongs, how two modules should hand off their work, or where a submodule from another Skill should fit.
 
-Skill Workbench gives that process a visible, editable workspace. **Sketch your ideas, inspect the structure, and show exactly where a change belongs.** Use text to explain goals and integration requirements, and the canvas to express module placement, composition and connections.
+SkillTangram gives that process a visible, editable workspace. **Sketch your ideas, inspect the structure, and show exactly where a change belongs.** Use text to explain goals and integration requirements, and the canvas to express module placement, composition and connections.
 
 ## What you can create and organize
 
@@ -91,7 +95,7 @@ Canvas connections express your design. **An executable Skill still requires int
 For your first session, follow the [public-example walkthrough](docs/TRY_IT.md#english). You do not need your own Skill or a model account to try the workbench.
 
 1. Download the [Windows installer](https://github.com/jiangzl1986-gif/skill-workbench/releases), choosing **windows-x64-setup.exe**.
-2. Double-click it and choose **Install**. Open **Skill Workbench** when finished; your browser opens automatically. Desktop and Start menu shortcuts are available for later use.
+2. Double-click it and choose **Install**. Open **Skill Workbench** (the name in existing installers) when finished; your browser opens automatically. Desktop and Start menu shortcuts are available for later use.
 3. Import your Skill through “导入与同步”, or try the two public examples in the installed `examples` folder.
 
 **No separate Python, Node.js, setup command or online dependency installation is needed.** The package targets Windows x64; the workbench UI is Chinese and the installer wizard is English. Keep the launcher open and click **退出工作台** to stop the service.
